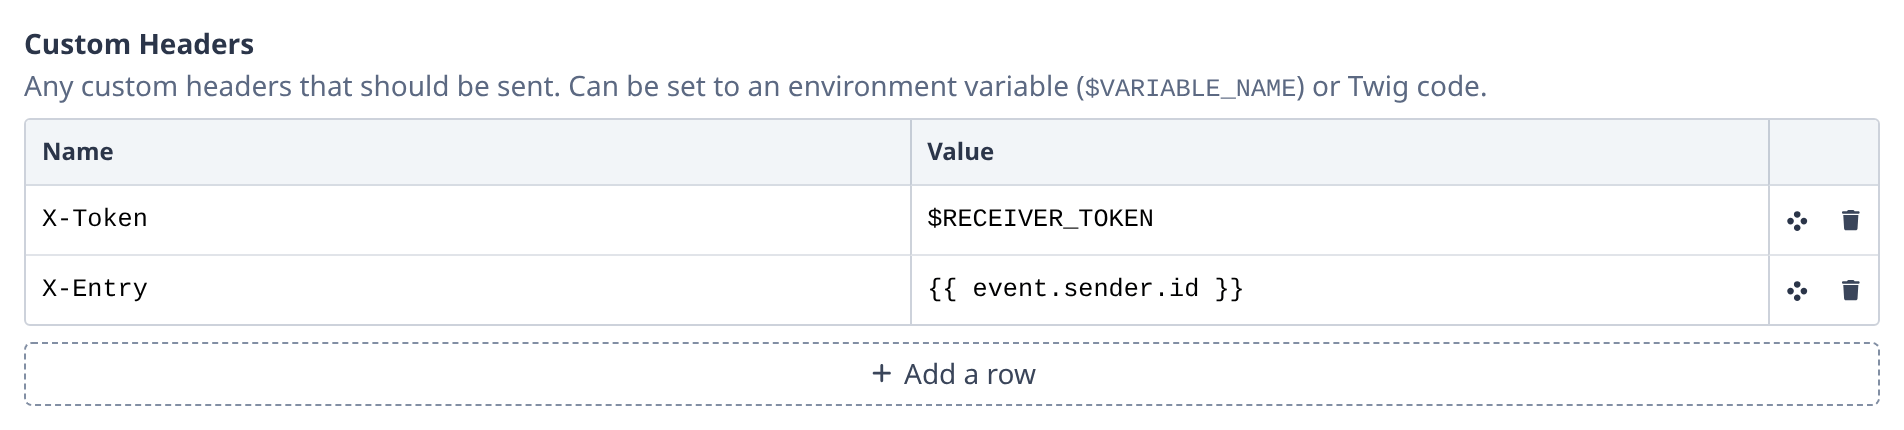
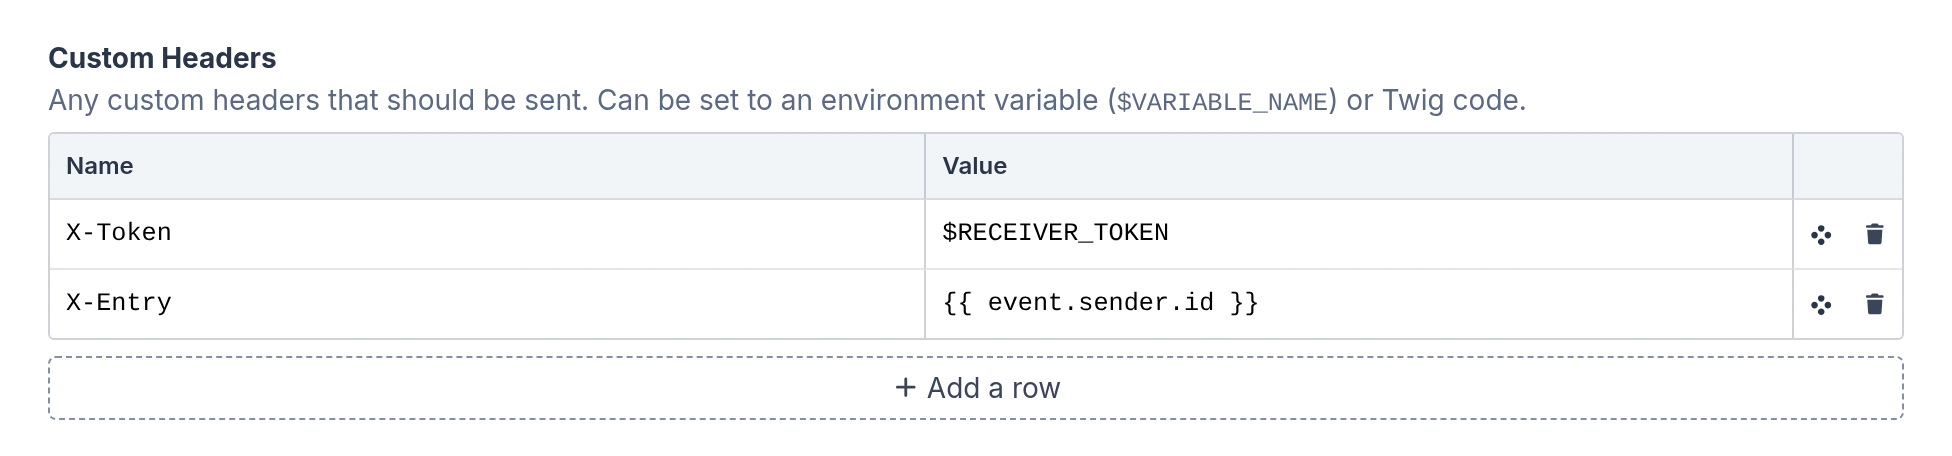
Update the README screenshots for Craft CMS 6
Retake the Edit Webhook, Event Filters and Custom Headers screenshots on
Craft CMS 6.0.0-beta.1, with event filters ordered No, Any, Yes. The
README now says only a filter set to “Yes” disables the ones it
conflicts with, as 0c82a47 changed.

Amp-Thread-ID: https://ampcode.com/threads/T-01a1bb52-1bc2-7562-8c0c-c85c057b73a4

diff --git a/README.md b/README.md
@@ -118,9 +118,9 @@ Webhooks can either send a GET request, or a POST request with a JSON body conta
 
 Some events can have filters applied to them, which prevent webhooks from being executed under certain conditions.
 
-<img src="./images/event-filters.png" width="560" height="830" alt="Screenshot of the Event Filters setting">
+<img src="./images/event-filters.png" width="560" height="837" alt="Screenshot of the Event Filters setting">
 
-Filters set to “Any” have no impact. Filters set to “Yes” are required for a webhook to execute, and filters set to “No” prevent it. Some filters can’t be combined, so setting one disables the filters it conflicts with.
+Filters set to “Any” have no impact. Filters set to “Yes” are required for a webhook to execute, and filters set to “No” prevent it. Some filters can’t be combined, so setting one to “Yes” disables the filters it conflicts with.
 
 Only events with an `element` property have any filters out of the box, but modules and plugins can register additional filters by listening for the `CraftCms\Webhooks\Events\FilterTypesResolving` event.
 
@@ -176,7 +176,7 @@ For example, if your webhook is for an entry (`CraftCms\Cms\Entry\Elements\Entry
 
 You can send custom headers along with webhook requests using the Custom Headers setting.
 
-<img src="./images/custom-headers.png" width="952" height="215" alt="Screenshot of the Custom Headers setting">
+<img src="./images/custom-headers.png" width="976" height="228" alt="Screenshot of the Custom Headers setting">
 
 Header values can be set to an environment variable using the `$VARIABLE_NAME` syntax, or a Twig template.
 
